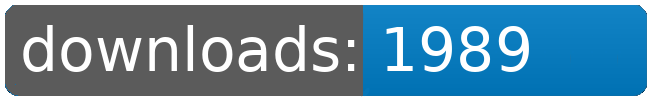
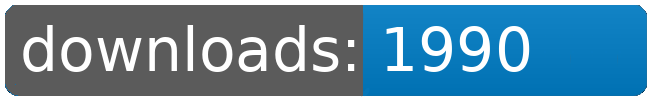
dl log written

Changed region(s): [[0.7077, 0.24, 0.8308, 0.72]]

diff --git a/README.md b/README.md
@@ -21,8 +21,8 @@
 		<td>1925</td>
 		<td>1950</td>
 		<td>1976</td>
-		<td>1989</td>
-		<td>+ 13</td>
+		<td>1990</td>
+		<td>+ 14</td>
 	</tr>
 	<tr>
 		<td>Factory.Outlets</td>
@@ -109,8 +109,8 @@
 		<td></td>
 		<td></td>
 		<td></td>
-		<td>16245</td>
-		<td>41</td>
+		<td>16246</td>
+		<td>42</td>
 	</tr>
 </table>
 </sub></sup>
@@ -157,8 +157,8 @@
 		<td>1925</td>
 		<td>1950</td>
 		<td>1976</td>
-		<td>1989</td>
-		<td>+ 13</td>
+		<td>1990</td>
+		<td>+ 14</td>
 	</tr>
 	<tr>
 		<td>Korunak.Defense.Drones</td>
@@ -223,8 +223,8 @@
 		<td></td>
 		<td></td>
 		<td></td>
-		<td>16245</td>
-		<td>41</td>
+		<td>16246</td>
+		<td>42</td>
 	</tr>
 </table>
 </sub></sup>
